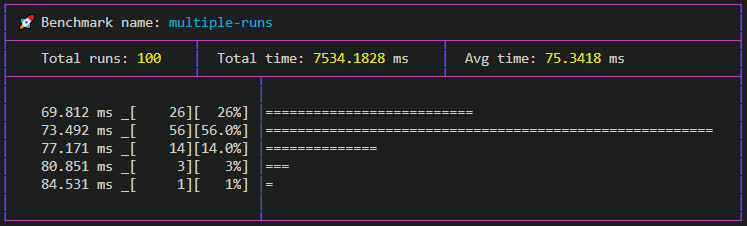
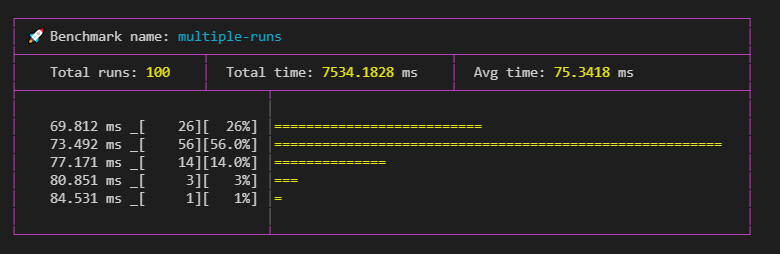
docs: Add snapper to generate docs images (#35)

Changed region(s): [[0.0, 0.0, 1.0, 0.9912]]

diff --git a/docs/snapper.ts b/docs/snapper.ts
@@ -1,0 +1,184 @@
+// deno-lint-ignore-file
+
+import { snap } from 'https://deno.land/x/snapper@v0.0.5/mod.ts';
+import type { SnapParams } from 'https://deno.land/x/snapper@v0.0.5/mod.ts';
+import { join } from "https://deno.land/std@0.91.0/path/win32.ts";
+import { deltaProgressRowExtra, deltaResultInfoCell, prettyBenchmarkHistory, prettyBenchmarkProgress, prettyBenchmarkProgressOptions, prettyBenchmarkResult, prettyBenchmarkResultOptions } from "../mod.ts";
+import { BenchmarkRunProgress, colors, ProgressState } from "../deps.ts";
+
+async function generateDocsImages() {
+    const pathBase = join(".", "docs", "showcase");
+
+    await Deno.permissions.request({name: 'hrtime'});
+    const readResult = await Deno.permissions.request({name: 'read', path: pathBase});
+    if(readResult.state !== 'granted') {
+        console.error('Can\'t run without input data for the benchmark. Exiting...');
+        Deno.exit(1);
+    }
+    const writeResult = await Deno.permissions.request({name: 'write', path: pathBase});
+    if(writeResult.state !== 'granted') {
+        console.error('Can\'t save result without write permission. Exiting...');
+        Deno.exit(1);
+    }
+
+    const resultData = readJsonSync(join(pathBase, "benchmark_result_input.json"));
+
+    const postFix = '.png';
+
+    const thresholds = {"multiple-runs": { green: 76, yellow: 82 }};
+    const indicators = [{benches: /multiple-runs/, color: colors.magenta,modFn: () => ({indicator: "🚀 ", visibleLength: 2})}];
+    const history = new prettyBenchmarkHistory({
+        history: [{date: new Date().toISOString(),
+            benchmarks: {
+                runs100ForIncrementX1e6: {measuredRunsAvgMs: 4.235, totalMs: 4235, runsCount: 1000},
+                for100ForIncrementX1e6: {measuredRunsAvgMs: 5.4405, totalMs: 5440.5, runsCount: 1000},
+                "multiple-runs": {measuredRunsAvgMs: 133.2134, totalMs: 13321.34, runsCount: 100}
+        }}]
+    });
+
+    /* Result cards */
+
+    const optionsSet: {name: string, options: prettyBenchmarkResultOptions}[] = [ // TODO remove "snap" postfix
+        {name: 'docs/imgs/prettyBenchingResult_example_threshold', options: {thresholds}},
+        {name: 'docs/imgs/prettyBenchingResult_example_indicator', options: {indicators}},
+        {name: 'docs/imgs/prettyBenchingResult_example_indicators', options: {thresholds, indicators}},
+        {name: 'docs/imgs/prettyBenchingResult_example_full_extra', options: {thresholds, indicators: [{benches: /multiple-runs/, color: colors.blue,modFn: () => colors.bgYellow(colors.bold(colors.black("%")))}], parts: {extraMetrics: true,threshold: true,graph: true,graphBars: 10 }}},
+        {name: 'docs/imgs/prettyBenchingResult_example_extrametrics_line', options: {thresholds, parts: {extraMetrics: true}}},
+        {name: 'docs/imgs/prettyBenchingResult_example_threshold_line', options: {thresholds, parts: {threshold: true, graph: true}}},
+        {name: 'docs/imgs/prettyBenchingHistory_result_card_delta', options: {infoCell: deltaResultInfoCell(history)}},
+    ];
+
+    const mr = {filtered: 0, results: [resultData.results[2]]};
+    const snaps: SnapParams[] = [];
+    snaps.push(...optionsSet.map(op => {
+        let result = "";
+        prettyBenchmarkResult({outputFn: (res) => result += res, ...op.options})(mr);
+        result = result.replace(/\n$/, '');
+        return {content: result, imageSavePath: op.name,viewport:{width: 780}} as SnapParams
+    }));
+
+    let result = "";
+    prettyBenchmarkResult({outputFn: (res) => result += res})(resultData);
+    snaps.push({content: result.replace(/\n$/, ''), imageSavePath: "docs/imgs/prettyBenchingResult_example", viewport: {width: 780}});
+
+    /* Progress */
+
+    const progressCases = [
+        {name: 'docs/imgs/prettyBenchingProgress_example_running', state: buildProgressState([
+            fakeStart(10,0),
+            fakeBenched('runs100ForIncrementX1e6', 100, 44.2054, 0.4421),
+            fakeBenched('for100ForIncrementX1e6', 100, 45.1917, 0.4519),
+            fakeProgress('for100ForIncrementx1e8', 100, 54)
+        ]), options: {}},
+        {name: 'docs/imgs/prettyBenchingProgress_example_finished', state: buildProgressState([
+            fakeStart(8,0),
+            fakeBenched('runs100ForIncrementX1e6', 100, 44.2054, 0.4421),
+            fakeBenched('for100ForIncrementX1e6', 100, 45.1917, 0.4519),
+            fakeBenched('for100ForIncrementx1e8', 100, 3758.5008, 37.5850),
+
+            fakeBenched('forIncrementX1e9', 1, 722.7738, 722.7738),
+            fakeBenched('forIncrementX1e9x2', 1, 12620.5453, 12620.5453),
+            fakeBenched('single', 1, 0.0183, 0.0183),
+            fakeBenched('multiple', 2, 0.0513, 0.0256),
+            fakeBenched('custom', 100, 18.9176, 0.0189),
+            fakeFinished()
+        ]), options: {}},
+        {name: 'docs/imgs/prettyBenchingProgress_example_indicators', state: buildProgressState([
+            fakeBenched('runs100ForIncrementX1e6', 100, 44.2054, 0.4421),
+            fakeBenched('for100ForIncrementX1e6', 100, 45.1917, 0.4519),
+
+            fakeBenched('forIncrementX1e9', 1, 722.7738, 722.7738),
+            fakeBenched('single', 1, 0.0183, 0.0183),
+            fakeBenched('multiple', 2, 0.0513, 0.0256),
+            fakeBenched('custom', 100, 18.9176, 0.0189),
+        ]), options: {
+            indicators: [
+                { benches: /100/, modFn: () => colors.bgRed('#') },
+                { benches: /for/, modFn: () => colors.red('#') },
+                { benches: /multiple/, modFn: colors.cyan},
+                { benches: /custom/, modFn: () => colors.bgYellow(colors.black("%")) }
+            ]
+        } as prettyBenchmarkProgressOptions},
+        {name: 'docs/imgs/prettyBenchingProgress_example_threshold', state: buildProgressState([
+            fakeStart(5,3),
+            fakeBenched('runs100ForIncrementX1e6', 100, 68, 0.68),
+            fakeBenched('for100ForIncrementX1e6', 100, 108, 1.08),
+            fakeBenched('for100ForIncrementx1e8', 100, 9056, 90.56),
+            fakeBenched('forIncrementX1e9', 1, 848, 848),
+            fakeBenched('forIncrementX1e9x2', 1, 14904,14904),
+            fakeFinished()
+        ]), options: {
+            thresholds: {
+                "for100ForIncrementX1e6": {green: 0.85, yellow: 1},
+                "for100ForIncrementX1e8": {green: 84, yellow: 93},
+                "forIncrementX1e9": {green: 900, yellow: 800},
+                "forIncrementX1e9x2": {green: 15000, yellow: 18000},
+            }
+        } as prettyBenchmarkProgressOptions},
+        {name: 'docs/imgs/prettyBenchingHistory_progress_delta', state: buildProgressState([            
+            fakeBenched('runs100ForIncrementX1e6', 1000, 2831.9055, 2.8319),
+            fakeBenched('for100ForIncrementX1e6', 1000, 5687.3089, 5.6873),
+            fakeBenched('for100ForIncrementx1e8', 1000, 2754.4350, 2.7544),
+        ]), options: {
+            rowExtras: deltaProgressRowExtra(history)
+        } as prettyBenchmarkProgressOptions, viewport: {width: 1200}}
+    ];
+
+    snaps.push(...progressCases.map(c => {
+        let result = "";
+        const progressFnc = prettyBenchmarkProgress({outputFn: (res) => result += (res.indexOf('Benchmarking finished') !== -1 ? '\n\n':'') + res, ...c.options});
+
+        const states = buildProgressState(c.state);
+        states.forEach(state => progressFnc(state));
+
+        result = result.replace(/^\x1B\[1A\r/, '').replace(/^\n/, '').replace(/\n$/, ''); //replace first up1Cl causing empty line
+
+        return {content: result, imageSavePath: c.name,viewport:{width: 1000, ...c.viewport}} as SnapParams;
+    }) as any)
+
+
+    await snap(snaps.map(s => ({...s, imageSavePath: s.imageSavePath + postFix})), {verbose: true, viewport: {deviceScaleFactor: 1}});
+}
+
+function readJsonSync(path: string) {
+    return JSON.parse(Deno.readTextFileSync(path));
+}
+
+function buildProgressState(fakeStates: any[]): BenchmarkRunProgress[] {
+    return fakeStates.reduce((pv: any[], cv: any[]) => {return pv.concat(cv);}, []);
+}
+
+function fakeStart (queued: number, filtered: number) {
+    return [{
+        queued: new Array(queued),
+        results: [],
+        filtered: filtered,
+        state: ProgressState.BenchmarkingStart
+    }];
+}
+
+function fakeFinished () {
+    return [{
+        queued: [],
+        results: [],
+        filtered: 0,
+        state: ProgressState.BenchmarkingEnd
+    }];
+}
+
+function fakeBenched(name: string, runsCount: number, totalMs: number, avg: number) {
+    return [
+        // ...fakeProgress(name, runsCount, 0),
+        {queued: [],results: [{name, totalMs, runsCount, measuredRunsAvgMs: avg, measuredRunsMs:[]}],filtered: 0,state: ProgressState.BenchResult}
+    ]
+};
+function fakeProgress(name: string, runsCount: number, progress: number){ 
+    return [
+        // {state: ProgressState.BenchStart,filtered: 0,queued: [],results: [],running: {name,runsCount,measuredRunsMs: []}},
+        {queued: [],results: [],filtered: 0,running: {name,runsCount,measuredRunsMs: new Array(progress)},state: ProgressState.BenchPartialResult}
+    ]
+};
+
+if(import.meta.main) {
+    generateDocsImages();
+}

diff --git a/README.md b/README.md
@@ -11,6 +11,7 @@ A simple Deno library, that gives you pretty benchmarking progress and results i
 [![Build Status](https://github.com/littletof/prettyBenching/workflows/CI/badge.svg)](https://github.com/littletof/prettyBenching/actions?query=workflow%3ACI)
 [![Coverage Status](https://coveralls.io/repos/github/littletof/prettyBenching/badge.svg)](https://coveralls.io/github/littletof/prettyBenching)
 ![maintained](https://img.shields.io/maintenance/yes/2021)
+[![snapper_deno](https://img.shields.io/badge/-snapper%20%F0%9F%93%B7-%230DBC79)](https://github.com/littletof/snapper)
 
 ## Jump to
 
